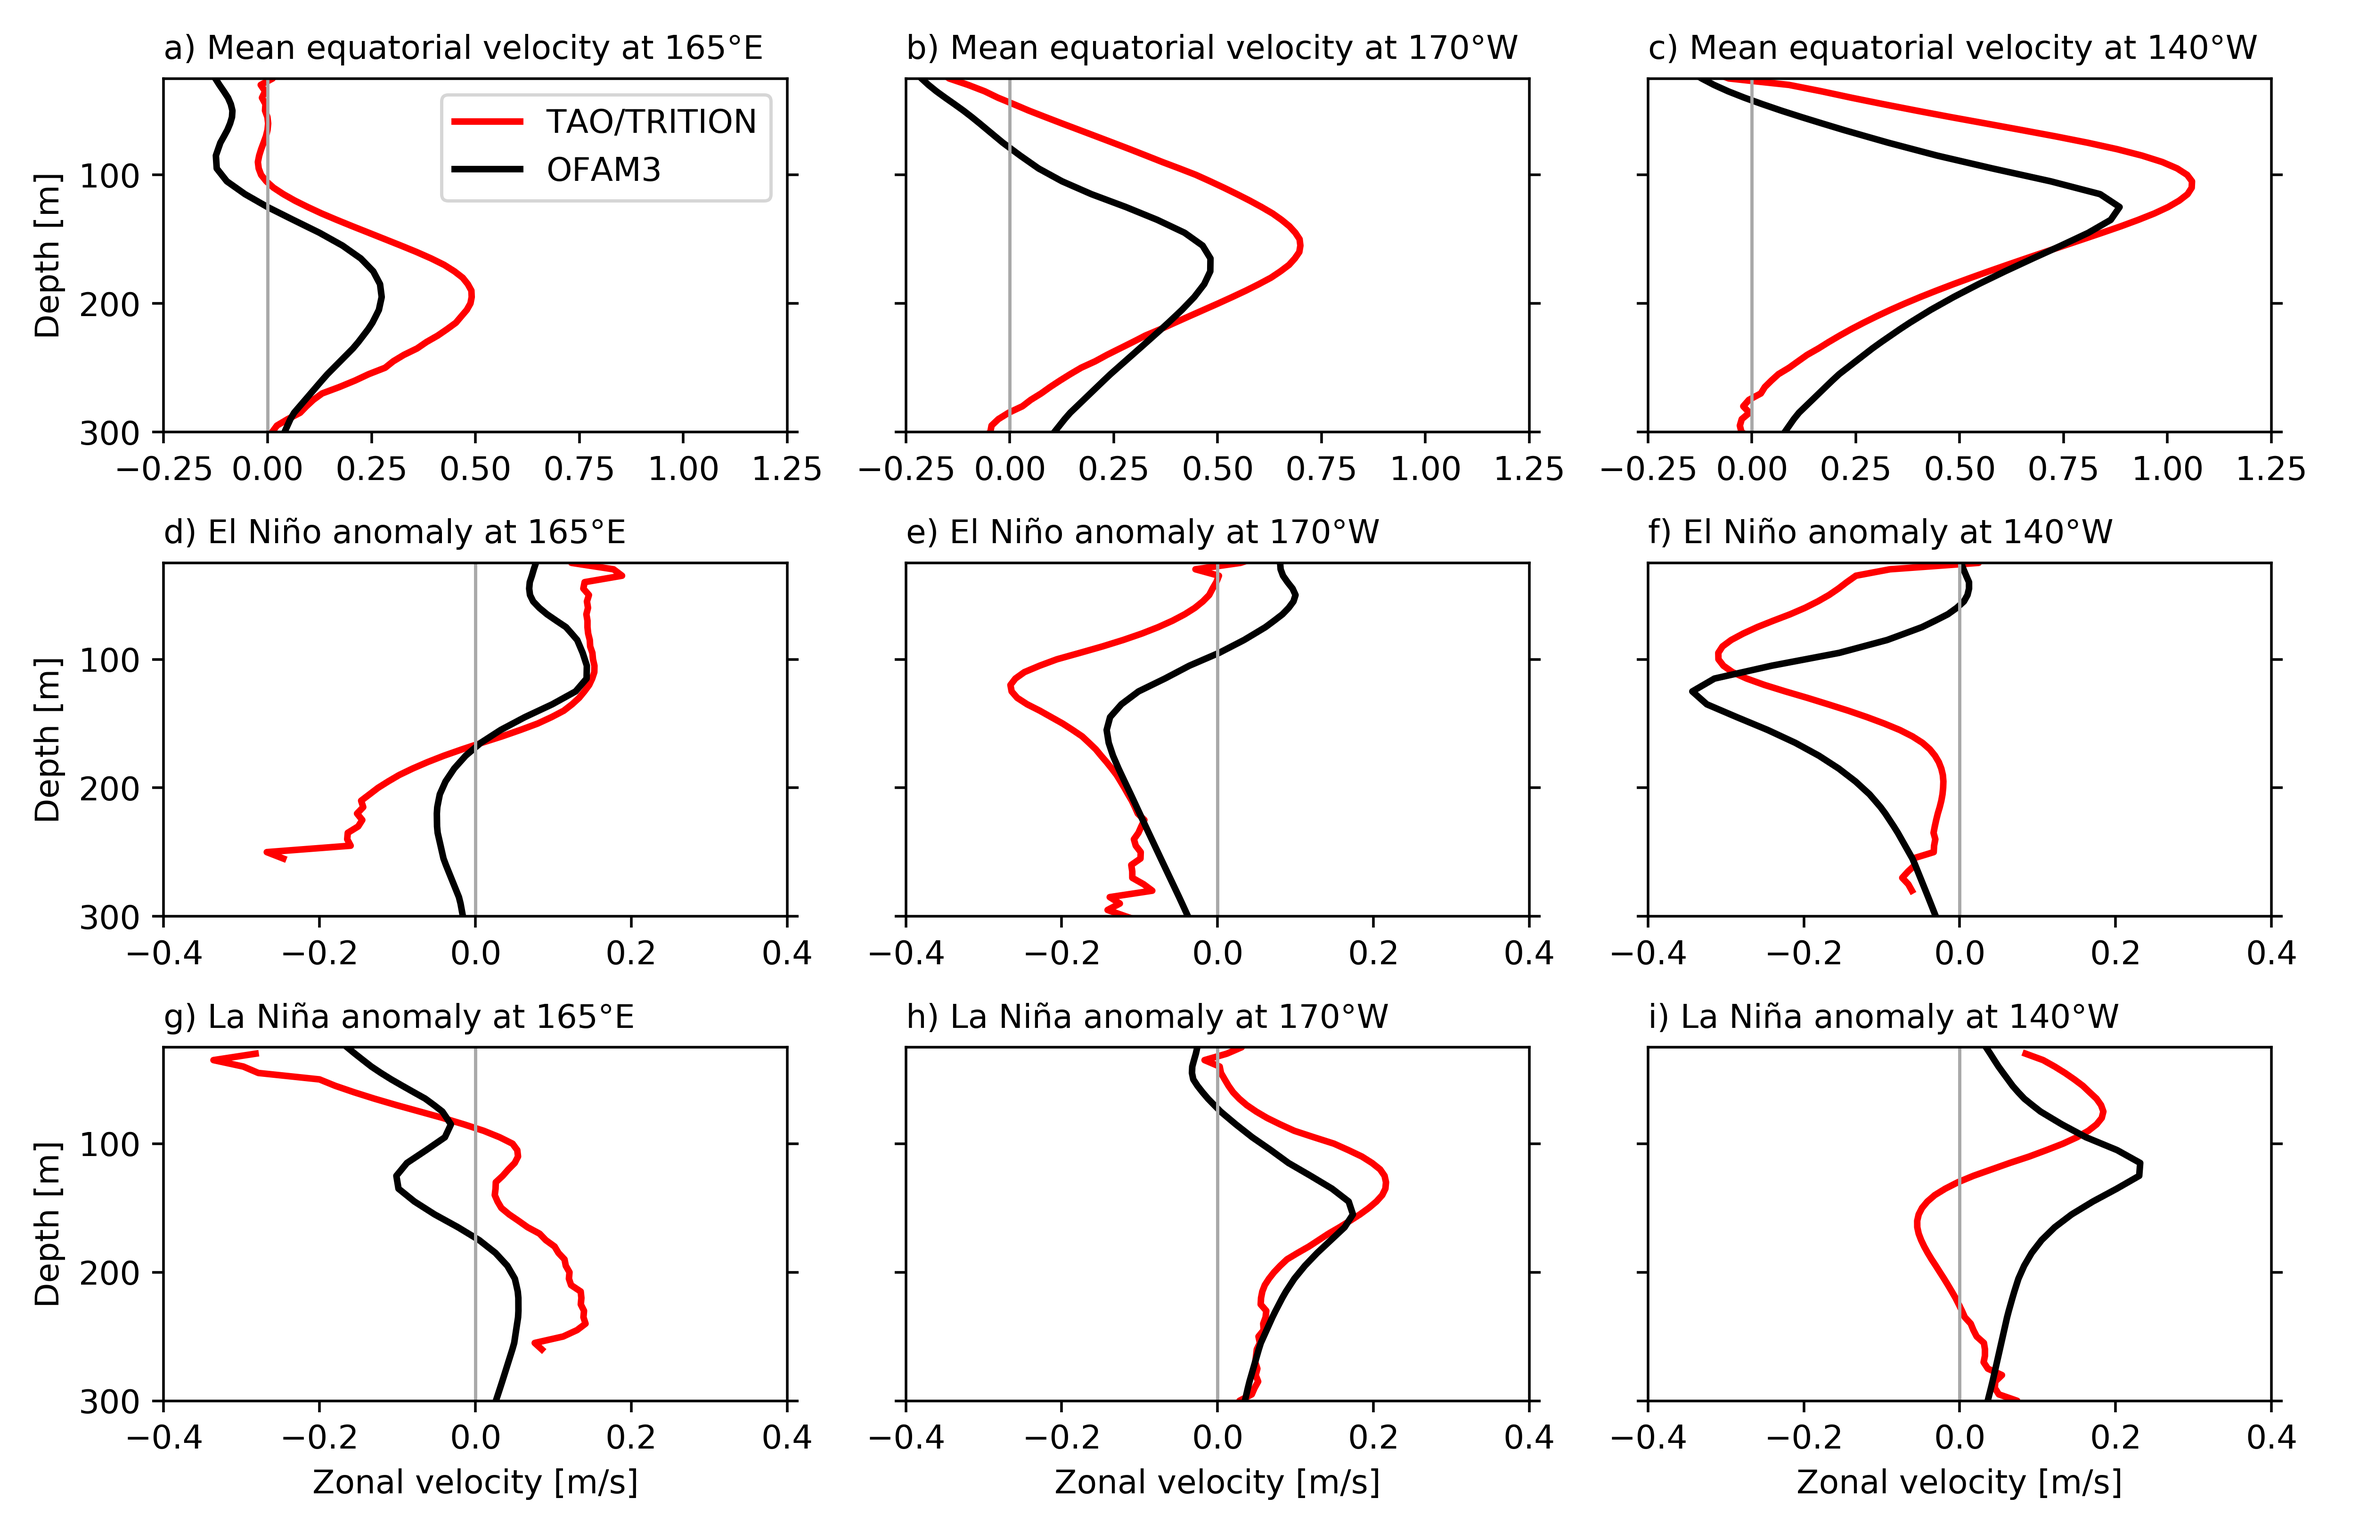
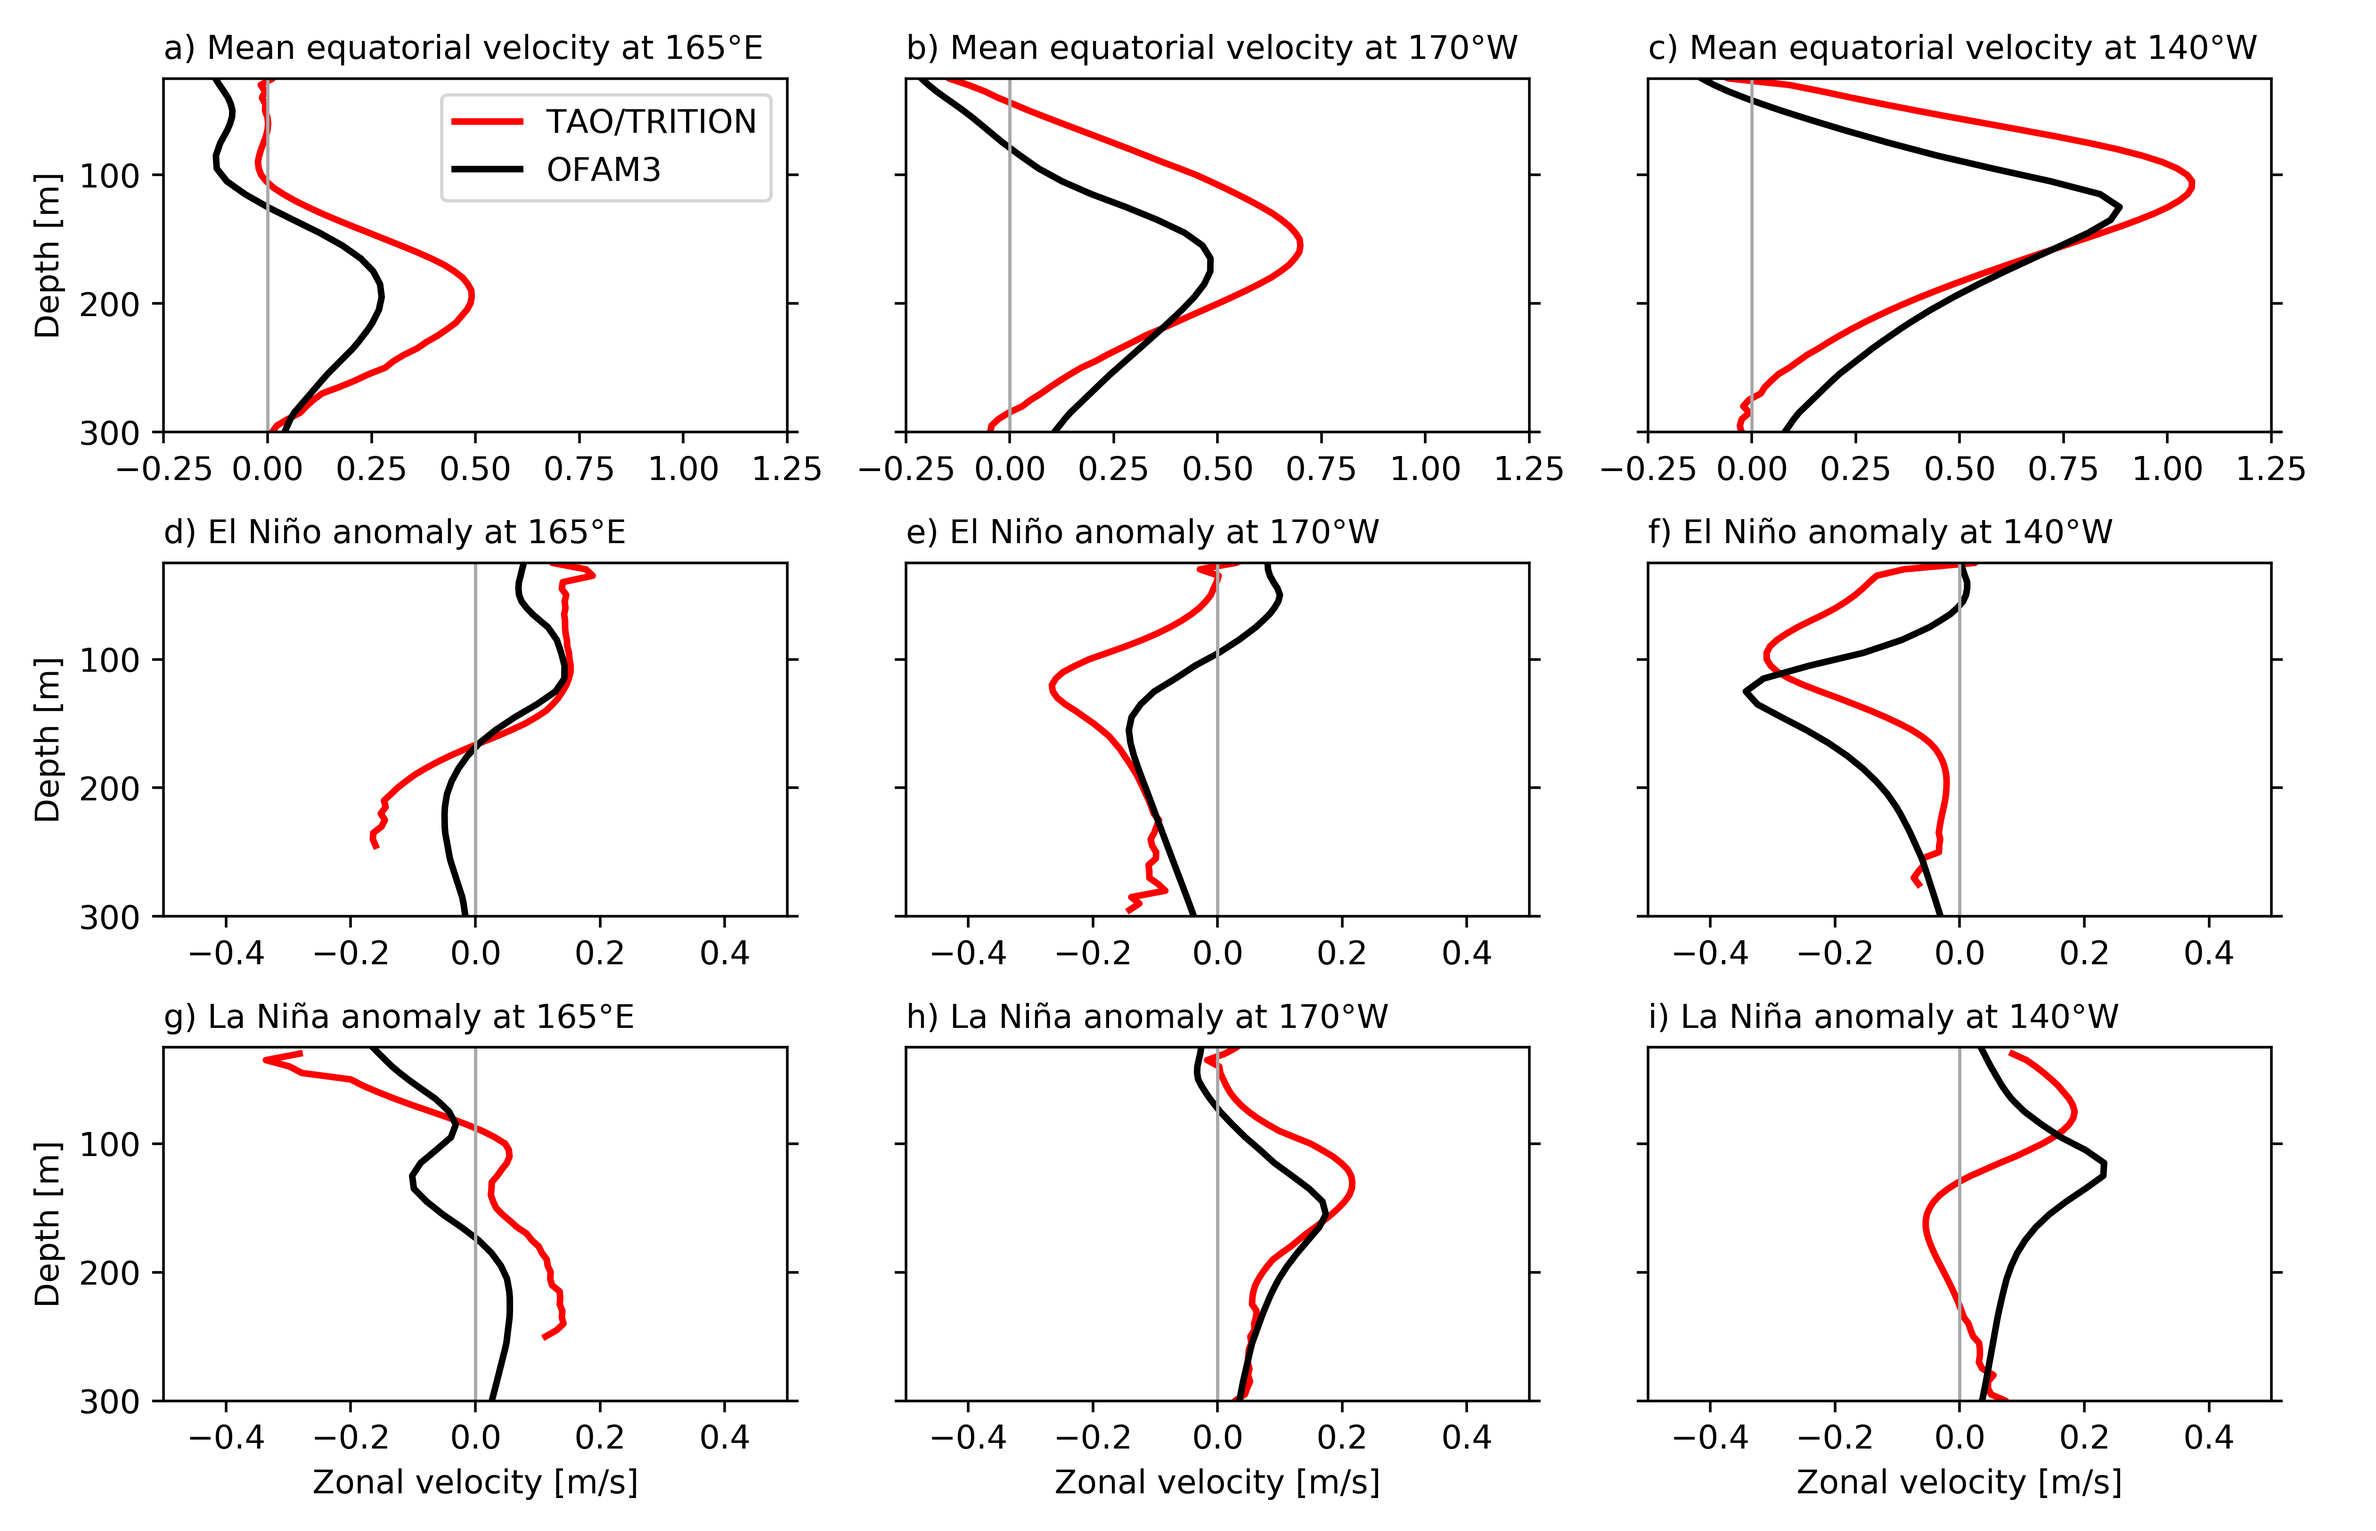
Updated eq u figs

diff --git a/scripts/valid_nino34.py b/scripts/valid_nino34.py
@@ -104,13 +104,12 @@ def enso_u_ofam(oni, du, nino=None, nina=None):
     for ix, x in enumerate(lx['lons']):
         for n, nin in enumerate([nino, nina]):
             for iz, z in enumerate(du.st_ocean):
-                tmp = np.array(0)*np.nan
+                tmp = []
                 for i in range(len(nin)):
                     u = du.sel(Time=slice(nin[i][0], nin[i][1]),
                                st_ocean=z, xu_ocean=x).values
                     if len(u) != 0:
                         tmp = np.append(tmp, u)
-                # print(tmp)
                 enso[n, iz, ix] = np.nanmean(tmp)
     oni.close()
     du.close()
@@ -128,22 +127,26 @@ def enso_u_tao(oni, ds, nino=None, nina=None):
                                 ('st_ocean', ds[zimax].depth),
                                 ('xu_ocean', lx['lons'])])
     skip = 0
+    sm = np.zeros((2, 3, len(nino), len(ds[zimax].depth)))*np.nan
     for ix, x in enumerate(lx['lons']):
         du = ds[ix].u_1205
         for n, nin in enumerate([nino, nina]):
 
             for iz, z in enumerate(du.depth):
-                tmp = np.array(0)*np.nan
+                tmp = []#np.array(0)*np.nan
                 for i in range(len(nin)):
                     u = du.sel(time=slice(nin[i][0], nin[i][1]), depth=z).values
-                    if len(u) != 0:
+                    if len(u) != 0 and not all(np.isnan(u)):
                         tmp = np.append(tmp, u)
-                if sum(~np.isnan(tmp)) >= 5:
+
+                    sm[n, ix, i, iz] = sum(~np.isnan(tmp))
+
+                if sum(~np.isnan(tmp)) >= 10:
                     enso[n, iz, ix] = np.nanmean(tmp)
                 elif sum(~np.isnan(tmp)) >= 1:
                     skip += 1
     # print(skip)
-    return enso
+    return enso#, sm
 
 
 # Path to save figures, save data and OFAM model output.

diff --git a/scripts/valid_plot_velocity_profile.py b/scripts/valid_plot_velocity_profile.py
@@ -28,6 +28,7 @@ def plot_eq_velocty_profile(z1=25, z2=300, anom=True):
     name = ['Mean equatorial velocity', 'El Niño ' + strx, 'La Niña ' + strx]
     labels = ['TAO/TRITION', 'OFAM3']
     oni_mod = xr.open_dataset(dpath/'ofam_sst_anom_nino34_hist.nc')
+    # oni_obs = xr.open_dataset(dpath/'noaa_sst_anom_nino34.nc').rename({'time': 'Time'})
     du_mod = xr.open_dataset(dpath.joinpath('ofam_EUC_int_transport.nc'))
     du_obs = open_tao_data(frq=lx['frq_short'][1], dz=slice(10, 360))
 
@@ -78,7 +79,7 @@ def plot_eq_velocty_profile(z1=25, z2=300, anom=True):
             if j == 0 or not anom:
                 ax[l].set_xlim(-0.25, 1.25)
             else:
-                ax[l].set_xlim(-0.4, 0.4)
+                ax[l].set_xlim(-0.5, 0.5)
             ax[l].axvline(x=0, c="darkgrey", linewidth=1)
             ax[l].set_ylim(z2, z1)
             ax[l].yaxis.set_ticks_position('both')
